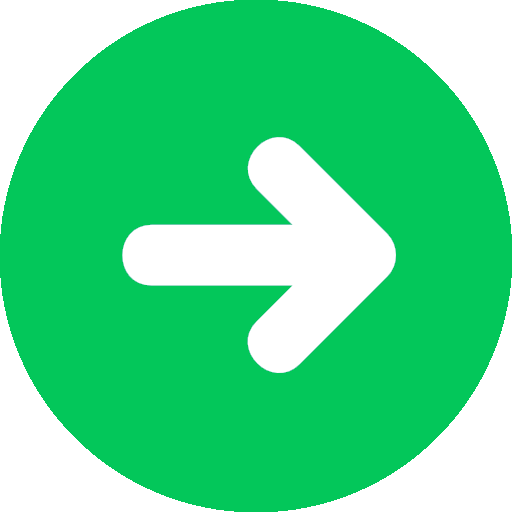
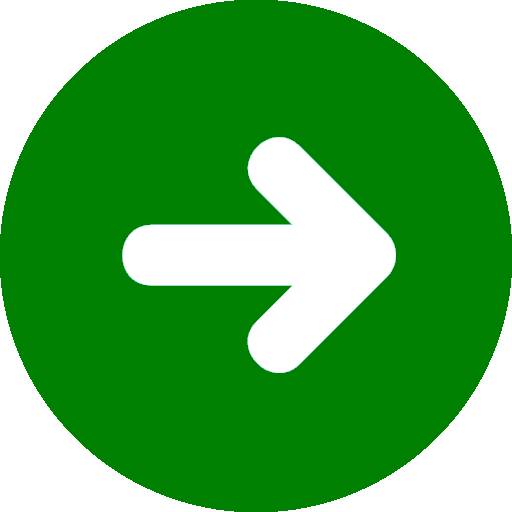
색상 변경

diff --git a/front/src/components/org/Card.css b/front/src/components/org/Card.css
@@ -110,7 +110,7 @@ body, html {
     padding-top: 1.7rem;
     padding-bottom: 1.6rem;
     color: #ffffff;
-    background-color: #18b848;
+    background-color: #008000;
     border-radius: 3rem;
     font-size: 1.4rem;
     font-weight: 700;
@@ -126,7 +126,7 @@ body, html {
     display: block; /* 버튼을 블록으로 설정하여 중앙 정렬 */
     margin: 20px auto; /* 위쪽과 아래쪽 여백 20px, 양쪽 여백 자동 */
     padding: 10px 20px; /* 상하 여백 10px, 좌우 여백 20px */
-    background-color: #4CAF50; /* 버튼 배경색 */
+    background-color: #008000; /* 버튼 배경색 */
     color: white; /* 글자 색상 */
     border: none; /* 테두리 제거 */
     border-radius: 5px; /* 모서리 둥글게 */

diff --git a/front/src/components/rss/RssArticle.css b/front/src/components/rss/RssArticle.css
@@ -51,7 +51,7 @@
 .rss-list-button a {
     display: inline-block; /* 버튼 모양을 위한 인라인 블록 */
     padding: 10px 20px; /* 버튼 내부 여백 */
-    background-color: #03c75a; /* 버튼 배경색 */
+    background-color: #008000; /* 버튼 배경색 */
     color: white; /* 텍스트 색상 */
     border: none; /* 기본 테두리 제거 */
     border-radius: 5px; /* 둥근 모서리 */

diff --git a/front/src/components/seoulnews/SeoulArticle.css b/front/src/components/seoulnews/SeoulArticle.css
@@ -108,7 +108,7 @@ table {
 .seoul-list-button a {
   display: inline-block; /* 버튼 모양을 위한 인라인 블록 */
   padding: 10px 20px; /* 버튼 내부 여백 */
-  background-color: #03c75a; /* 버튼 배경색 */
+  background-color: #008000; /* 버튼 배경색 */
   color: white; /* 텍스트 색상 */
   border: none; /* 기본 테두리 제거 */
   border-radius: 5px; /* 둥근 모서리 */
